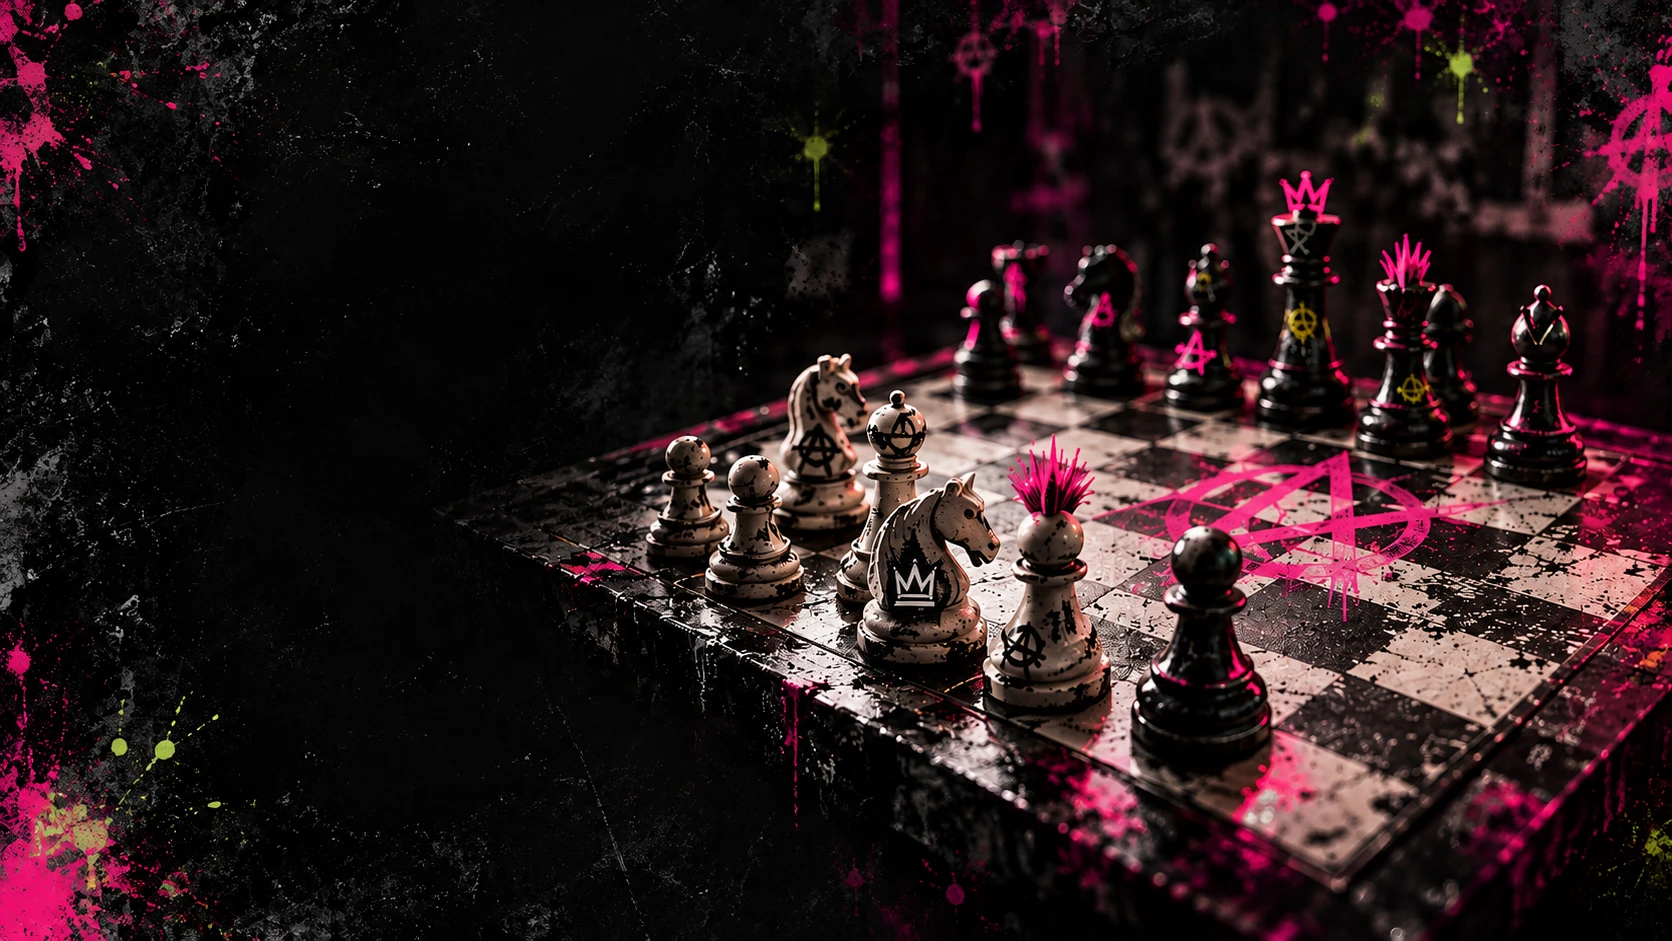
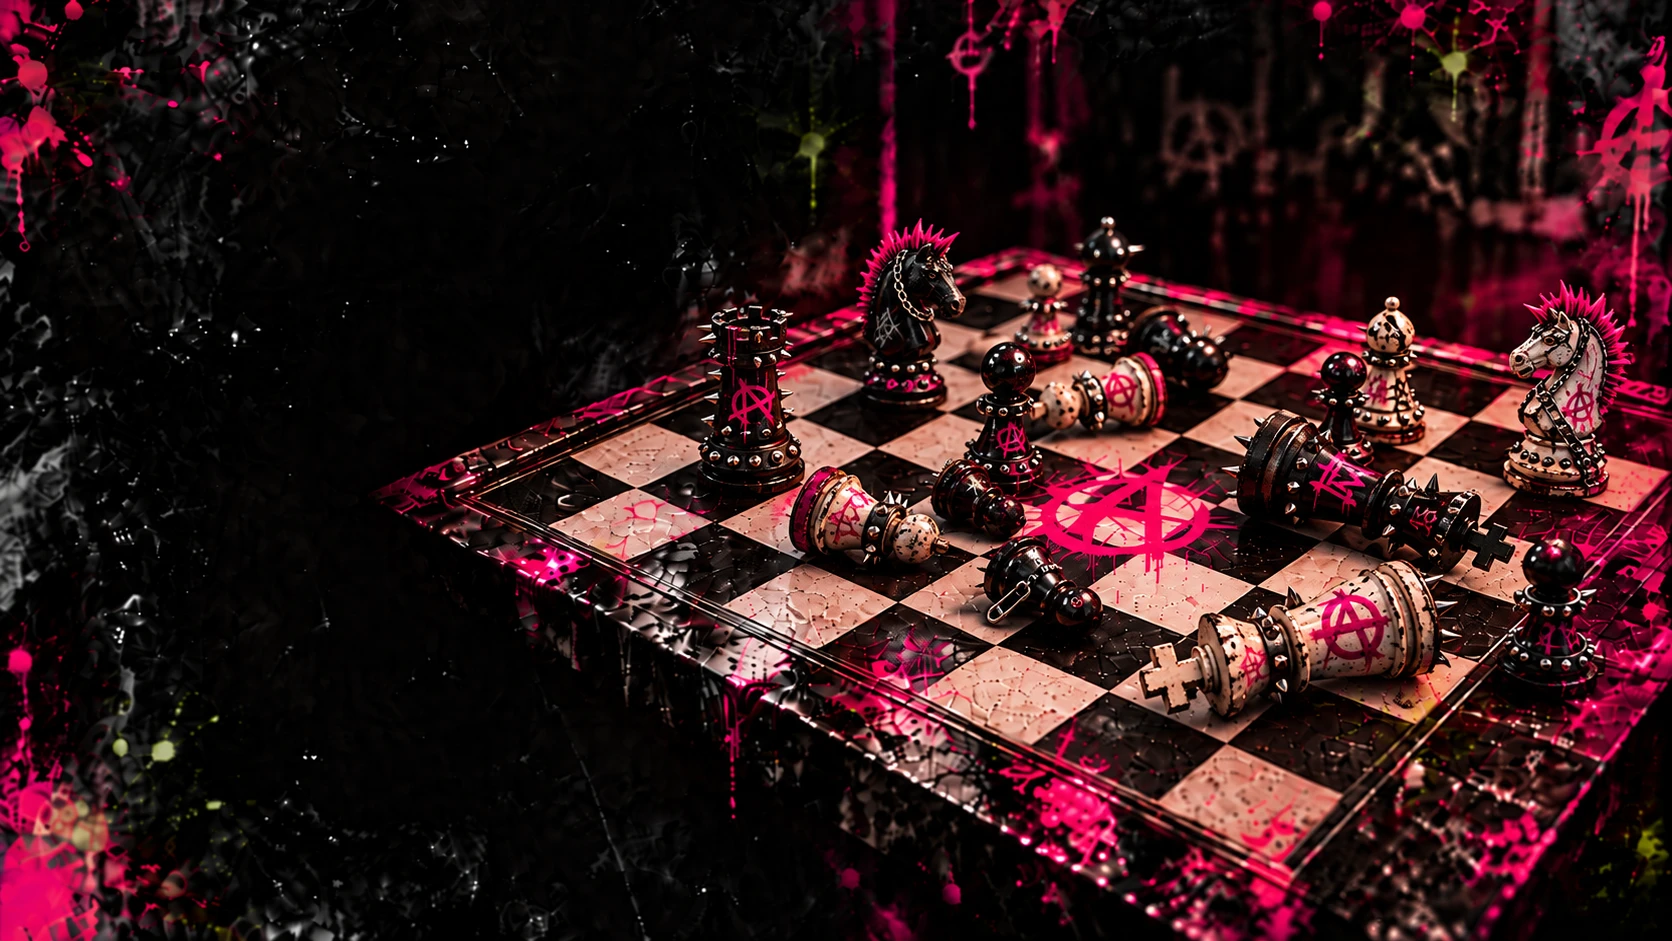
Hero: new picture, light shade behind the text

diff --git a/src/ui/styles.css b/src/ui/styles.css
@@ -299,8 +299,18 @@ button.primary:hover:not(:disabled) {
   object-fit: cover;
   object-position: 72% center;
 }
+/* Darkens the left side where the text sits, so it reads over the board in the picture. */
+.hero::before {
+  content: '';
+  position: absolute;
+  inset: 0;
+  z-index: 1;
+  background: linear-gradient(90deg, rgba(10, 10, 11, 0.55) 0%, rgba(10, 10, 11, 0.35) 30%, rgba(10, 10, 11, 0) 55%);
+  pointer-events: none;
+}
 .hero-copy {
   position: relative;
+  z-index: 2;
   max-width: 780px;
 }
 .tape {
@@ -399,6 +409,7 @@ button.primary:hover:not(:disabled) {
 }
 .slogan {
   position: absolute;
+  z-index: 2;
   right: max(28px, calc((100% - 1400px) / 2 + 28px));
   bottom: 56px;
   margin: 0;
@@ -2660,6 +2671,10 @@ button.primary:hover:not(:disabled) {
   .hero-image {
     object-position: 80% center;
     opacity: 0.45;
+  }
+  /* The image is already dimmed here; no extra shade. */
+  .hero::before {
+    display: none;
   }
   .tape {
     margin-left: 10px;
